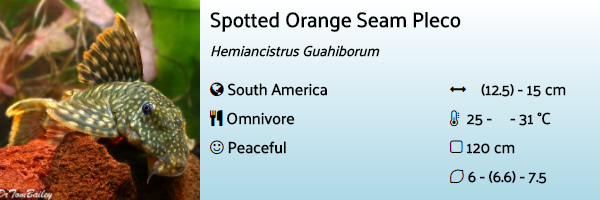
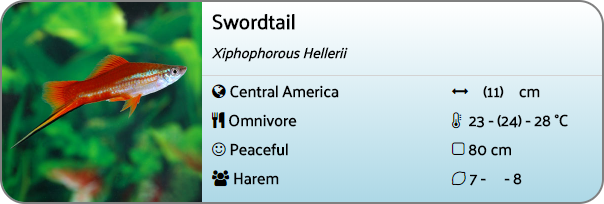
Update card looks

diff --git a/stylesheet_labels.css b/stylesheet_labels.css
@@ -6,6 +6,9 @@
 	margin-bottom: 10px;
 	width:600px;
 	background: linear-gradient(white, lightblue);
+	border-radius: 25px;
+    border: 2px solid grey;
+	overflow:hidden;
 }
 
 .cardinfocontainer{
@@ -16,6 +19,7 @@
 .cardinfoheader {
 	width:390px;
 	padding-left:10px;
+	border-bottom: 1px solid lightgrey;
 }
 
 .cardinfodata {

diff --git a/README.md b/README.md
@@ -7,29 +7,29 @@ Example:
 
 
 ```json
-"orange_seam": {
-    "name": "Spotted Orange Seam Pleco",
-    "latin_name": "Hemiancistrus Guahiborum",
-    "image_url": "http://www.aquariumfish.net/images_01/orange_seam_pleco_150502a5_w0480.jpg",
+"swordtail": {
+    "name": "Swordtail",
+    "latin_name": "Xiphophorous Hellerii",
     "length": {
       "min": "",
-      "max": 15,
-      "avg": 12.5
+      "max": "",
+      "avg": 11
     },
-    "region": "South America",
-    "group_size": "",
+    "image_url": "https://www.petsolutions.com/images/Products/13500.jpg",
+    "region": "Central America",
+    "group_size": "Harem",
     "temper": "Peaceful",
-    "min_aquarium_size": 120,
+    "min_aquarium_size": 80,
     "food_type": "Omnivore",
     "temps": {
-      "min": 25,
-      "max": 31,
-      "ideal": ""
+      "min": 23,
+      "max": 28,
+      "ideal": 24
     },
     "pH": {
-      "min": 6,
-      "max": 7.5,
-      "ideal": 6.6
+      "min": 7,
+      "max": 8,
+      "ideal": ""
     }
   }
   ```
